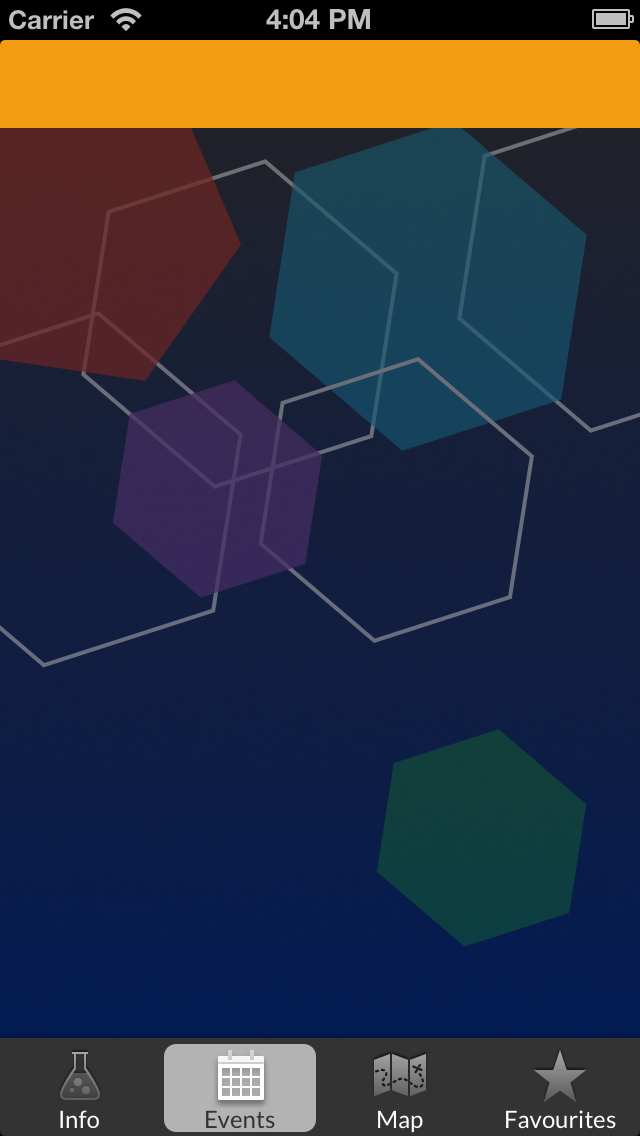
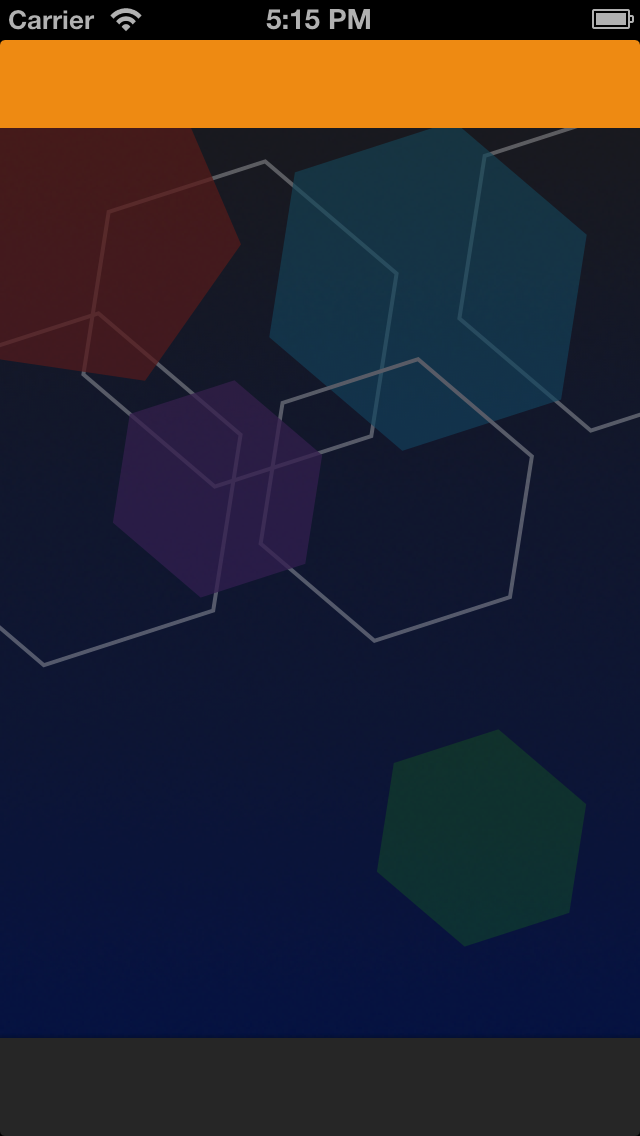
Added correct launch images

diff --git a/NSWApp/NSWApp/AppDelegate.m b/NSWApp/NSWApp/AppDelegate.m
@@ -35,7 +35,7 @@
                 }
             });
         }];
-           
+        [(UITabBarController*)[self.window rootViewController] setSelectedIndex: 1]; //Defaulting to having this selected for now, looks silly with launch image otherwise.
     }
     [[NSWEventData sharedData] checkUsersLocation];
 
